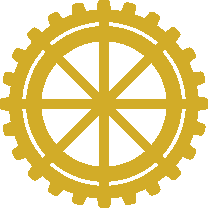
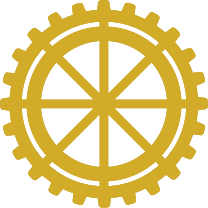
UI : high resolution gears pictures

diff --git a/media/loading.less b/media/loading.less
@@ -72,7 +72,7 @@ body {
 
   .ct-lens {
     position: absolute;
-    left: 20%;
+    left: 18%;
     top: 40%;
     width: @lensWidth;
     height: @lensHeight;
@@ -277,8 +277,8 @@ body {
 
     > .border {
       position: absolute;
-      top: -249px;
-      left: -249px;
+      top: -124px;
+      left: -124px;
       z-index: 20;
     }
   }

diff --git a/index.html b/index.html
@@ -133,7 +133,7 @@
           <img class="middlescrew" src="media/images/loading/lens_gears1_middlescrew.png">
         </div>
 
-          <img class="border" src="media/images/loading/border2.png">
+          <img class="border" src="media/images/loading/border3.png">
 
       </div>
 
